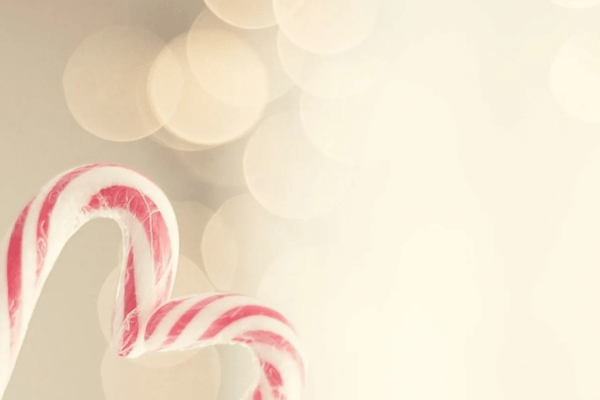
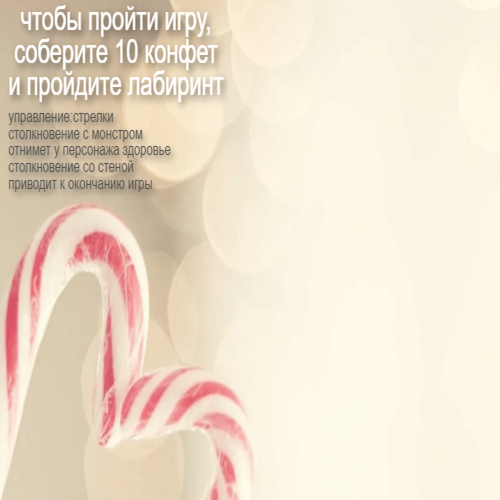
upd_prj

Changed region(s): [[0.0, 0.0, 0.45, 0.39]]

diff --git a/main.py b/main.py
@@ -1,17 +1,24 @@
+import character as character_module
+from level.level import *
+import level.tile as tile_module
+import enemy as enemy_module
+import random
 import pygame
-import pygame_menu  # библиотека для создания меню
+import pygame_menu
 
+clock = pygame.time.Clock()
 # инициализация
 pygame.init()
 
 # зададим размер экрана приложения
-SIZE = (WIDTH, HEIGHT) = (600, 400)
+SIZE = (WIDTH, HEIGHT) = (500, 500)
 # задаем сам экран с нужным размером
 screen = pygame.display.set_mode(SIZE)
 
 # название вкладки
 pygame.display.set_caption("Candy Dream")
 BACKGROUND_MENU_PATH = "img/menu.png"
+
 # создаем изображение для меню
 backgound_img = pygame_menu.baseimage.BaseImage(
     image_path=BACKGROUND_MENU_PATH,
@@ -33,28 +40,116 @@ theme = pygame_menu.themes.Theme(
     title_bar_style=pygame_menu.widgets.MENUBAR_STYLE_NONE
 )
 
+pygame.init()
+
+
+def draw_text(surface, text, rate, x, y, color):
+    font = pygame.font.Font('img/NerkoOne-Regular.ttf', rate)
+    text_surface = font.render(text, True, color)
+    text_rect = text_surface.get_rect()
+    text_rect.midtop = (x, y)
+    surface.blit(text_surface, text_rect)
+
+
+background_game_img = pygame.image.load("img/background1.png")
+size = width, height = 500, 500
+pygame.display.set_caption('Candy Dream')
+
+all_sprites = pygame.sprite.Group()
+
+tiles_group = pygame.sprite.Group()
+walls_group = pygame.sprite.Group()
+empty_tile_group = pygame.sprite.Group()
+candy_group = pygame.sprite.Group()
+
+player_group = pygame.sprite.Group()
+enemy_group = pygame.sprite.Group()
+
+lvl = Level('img/lvl.txt')
+player, level_x, level_y = lvl.generate_level(tile_module, character_module, enemy_module,
+                                              player_group,
+                                              tiles_group, walls_group,
+                                              empty_tile_group, enemy_group, all_sprites)
+
+enemy_hitable = pygame.image.load('img/candy.png')
+enemy_time = pygame.USEREVENT + 1
+pygame.time.set_timer(enemy_time, 3500)
+candy_in_game = []
+
+label = pygame.font.Font('img/NerkoOne-Regular.ttf', 40)
+label_lose = label.render('You lost!', True, (255, 0, 0))
+label_win = label.render('You win!', True, (0, 255, 0))
+label_restart = label.render('start again', True, (255, 255, 255))
+label_restart_rect = label_restart.get_rect(topleft=(150, 200))
+
 
 def startGame():
-    # главный цикл игры-приложения
+    FPS = 20
+    tick = 0
+    cl = pygame.time.Clock()
     running = True
     while running:
-        # перебираем все события, что случились
         for event in pygame.event.get():
-            # если событие - это нажатие на крестик, то мы останавливаем цикл игры
             if event.type == pygame.QUIT:
-                running = False
-        # заливаем экран цветом
-        screen.fill((0, 0, 0))
-        # отвечает за плавность смены кадров
+                # running = False
+                quit()
+            if event.type == enemy_time:
+                candy_in_game.append(enemy_hitable.get_rect(topleft=(500, random.randint(70, 250))))
+            player_group.update(event)
+
+        if not player.win and player.alive:
+            screen.blit(background_game_img, (0, 0))
+            tiles_group.draw(screen)
+            player_group.draw(screen)
+            enemy_group.draw(screen)
+            if candy_in_game:
+                for (i, e) in enumerate(candy_in_game):
+                    screen.blit(enemy_hitable, e)
+                    e.x -= 5
+                    if e.x < -5:
+                        candy_in_game.pop(i)
+                    if player.rect.colliderect(e):
+                        player.collected_candies += 10
+                        candy_in_game.pop(i)
+            all_sprites.update()
+            tick += 1
+            cl.tick(FPS)
+            draw_text(screen, "SCORE", 14, 220, 5, (0, 0, 0))
+            draw_text(screen, str(player.collected_candies), 20, 220, 14, (255, 0, 0))
+            draw_text(screen, "HEALTH", 14, 270, 5, (0, 0, 0))
+            draw_text(screen, str(player.health), 20, 270, 14, (0, 255, 0))
+
+        elif player.win:
+            collected_candies = label.render(f'your score: {player.collected_candies}', True, (255, 255, 255))
+            screen.fill((0, 0, 0))
+            screen.blit(label_win, (180, 10))
+            screen.blit(collected_candies, (150, 30))
+            screen.blit(label_restart, label_restart_rect)
+            mouse_coords = pygame.mouse.get_pos()
+            if label_restart_rect.collidepoint(mouse_coords) and pygame.mouse.get_pressed()[0]:
+                player.rect = player.rect.move(-player.rect.x + 20, -player.rect.y + 20)
+                player.image = player.frames[1]
+                player.health = 50
+                player.collected_candies = 0
+                player.win = False
+
+        else:
+            collected_candies = label.render(f'your score: {player.collected_candies}', True, (255, 255, 255))
+            screen.fill((0, 0, 0))
+            screen.blit(label_lose, (180, 10))
+            screen.blit(collected_candies, (150, 30))
+            screen.blit(label_restart, label_restart_rect)
+            mouse_coords = pygame.mouse.get_pos()
+            if label_restart_rect.collidepoint(mouse_coords) and pygame.mouse.get_pressed()[0]:
+                player.rect = player.rect.move(-player.rect.x + 20, -player.rect.y + 20)
+                player.image = player.frames[1]
+                player.health = 50
+                player.collected_candies = 0
+                player.alive = True
         pygame.display.flip()
-    # выход
-    pygame.quit()
 
 
-# создаем меню с нашей темой
-menu = pygame_menu.Menu("Let's start your dream!", WIDTH, HEIGHT, theme=theme)
-# добавляем кнопки и действия к ним
+menu = pygame_menu.Menu('', WIDTH, HEIGHT, theme=theme)
 menu.add.button('PLAY', startGame)
-menu.add.button('Exit', pygame_menu.events.EXIT)
-# цикл меню
+menu.add.button('EXIT', pygame_menu.events.EXIT)
 menu.mainloop(screen)

diff --git a/level/level.py b/level/level.py
@@ -1,0 +1,64 @@
+import pygame
+import os
+import sys
+
+
+def load_image(name, colorkey=None):
+    fullname = os.path.join('img', name)
+    # если файл не существует, то выходим
+    if not os.path.isfile(fullname):
+        print(f"Файл с изображением '{fullname}' не найден")
+        sys.exit()
+    image = pygame.image.load(fullname)
+    if colorkey is not None:
+        image = image.convert()
+        if colorkey == -1:
+            colorkey = image.get_at((0, 0))
+        image.set_colorkey(colorkey)
+
+    return image
+
+
+class Level:
+    tile_images = {
+        'wall': load_image('barriere_tile.png'),
+        'empty': load_image('empty_tile.png')
+    }
+    player_image = load_image('cat_walk.png')
+    enemy_image = load_image('enemy.png')
+
+    def __init__(self, filename):
+        self.filename = filename
+        self.data_level = self.load_level()
+
+    def load_level(self):
+        # читаем уровень, убирая символы перевода строки
+        with open(self.filename, 'r') as mapFile:
+            level_map = [line.strip() for line in mapFile]
+
+        # и подсчитываем максимальную длину
+        max_width = max(map(len, level_map))
+
+        # дополняем каждую строку пустыми клетками ('.')
+        return list(map(lambda x: x.ljust(max_width, '.'), level_map))
+
+    def generate_level(self, tile_module, character_module, enemy_module, player_group, tile_group, wall_group,
+                       empty_group, enemy_group,
+                       all_sprites):
+        new_player, x, y = None, None, None
+        for y in range(len(self.data_level)):
+            for x in range(len(self.data_level[y])):
+                if self.data_level[y][x] == '.':
+                    tile_module.Tile(self.tile_images['empty'], (x, y), (20, 20), empty_group, tile_group, all_sprites)
+                elif self.data_level[y][x] == '#':
+                    tile_module.Tile(self.tile_images['wall'], (x, y), (20, 20), wall_group, tile_group, all_sprites)
+                elif self.data_level[y][x] == '@':
+                    tile_module.Tile(self.tile_images['empty'], (x, y), (20, 20), empty_group, tile_group, all_sprites)
+                    new_player = character_module.Character(self.player_image, 3, 4, 20, 20, enemy_group,
+                                                            wall_group,
+                                                            player_group, all_sprites)
+                elif self.data_level[y][x] == '+':
+                    tile_module.Tile(self.tile_images['empty'], (x, y), (20, 20), empty_group, tile_group, all_sprites)
+                    enemy_module.Enemy(self.enemy_image, (x, y), (17, 17), enemy_group, all_sprites)
+        return new_player, x, y
+

diff --git a/character.py b/character.py
@@ -1,0 +1,81 @@
+import pygame
+
+
+class Character(pygame.sprite.Sprite):
+    def __init__(self, sheet, columns, rows, x, y, enemy_group,
+                 wall_group, *groups):
+        super().__init__(*groups)
+        self.frames = []
+        self.cut_sheet(sheet, columns, rows)
+        self.cur_frame = 0
+        self.cur_frame_walk = 0
+        self.image = self.frames[self.cur_frame]
+        self.health = 50
+
+        self.rect = self.rect.move(x, y)
+        self.counter = 0
+        self.wall = wall_group
+        self.enemies = enemy_group
+        self.collected_candies = 0
+
+        self.speed_x = 10
+        self.speed_y = 10
+
+        self.alive = True
+        self.win = False
+
+    def cut_sheet(self, sheet, columns, rows):
+        self.rect = pygame.Rect(0, 0, sheet.get_width() // columns,
+                                sheet.get_height() // rows)
+        for j in range(rows):
+            for i in range(columns):
+                frame_location = (self.rect.w * i, self.rect.h * j)
+                self.frames.append(sheet.subsurface(pygame.Rect(
+                    frame_location, self.rect.size)))
+
+    def walk(self, event):
+        if pygame.key.get_pressed()[pygame.K_LEFT] and self.rect.x >= 10:
+            if self.counter >= 6 or self.counter < 3:
+                self.counter = 3
+            self.image = self.frames[self.counter]
+            self.counter += 1
+            self.rect.x -= self.speed_x
+
+        elif pygame.key.get_pressed()[pygame.K_RIGHT] and self.rect.x <= 450:
+            if self.counter >= 9 or self.counter < 6:
+                self.counter = 6
+            self.image = self.frames[self.counter]
+            self.counter += 1
+            self.rect.x += self.speed_x
+
+        elif pygame.key.get_pressed()[pygame.K_UP] and self.rect.y >= 10:
+            if self.counter >= 12 or self.counter < 9:
+                self.counter = 9
+
+            self.image = self.frames[self.counter]
+            self.counter += 1
+            self.rect.y -= self.speed_y
+
+        elif pygame.key.get_pressed()[pygame.K_DOWN] and self.rect.y <= 450:
+            if self.counter >= 3 or self.counter < 0:
+                self.counter = 0
+            self.image = self.frames[self.counter]
+            self.counter += 1
+            self.rect.y += self.speed_y
+
+        if 490 >= self.rect.x >= 400 and self.rect.y >= 460 and self.collected_candies >= 100:
+            self.win = True
+
+        if pygame.sprite.spritecollide(self, self.enemies, False):
+            if self.health == 0:
+                self.alive = False
+            else:
+                self.health -= 0.5
+
+        if pygame.sprite.spritecollideany(self, self.wall):
+            self.alive = False
+
+    def update(self, *args):
+        if args:
+            self.walk(args[0])
+

diff --git a/enemy.py b/enemy.py
@@ -1,0 +1,21 @@
+import pygame
+
+
+class Enemy(pygame.sprite.Sprite):
+    def __init__(self, enemy_image, pos, size, *groups):
+        super().__init__(*groups)
+        self.direction = 1
+        self.image = enemy_image
+        self.rect = self.image.get_rect().move(
+            size[0] * pos[0], size[1] * pos[1])
+        self.start = self.rect.x
+        self.stop = self.rect.x + 50
+
+    def update(self):
+        if self.rect.x >= self.stop:
+            self.rect.x = self.stop
+            self.direction = -1
+        if self.rect.x <= self.start:
+            self.rect.x = self.start
+            self.direction = 1
+        self.rect.x += self.direction

diff --git a/level/tile.py b/level/tile.py
@@ -1,0 +1,9 @@
+import pygame
+
+
+class Tile(pygame.sprite.Sprite):
+    def __init__(self, tile_image, pos, size, *groups):
+        super().__init__(*groups)
+        self.image = tile_image
+        self.rect = self.image.get_rect().move(
+            size[0] * pos[0], size[1] * pos[1])
